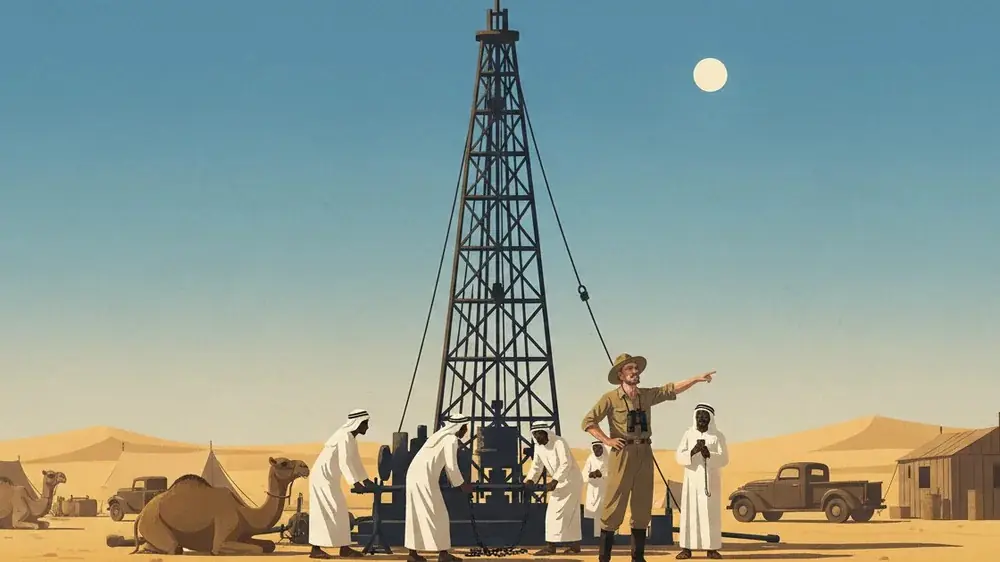
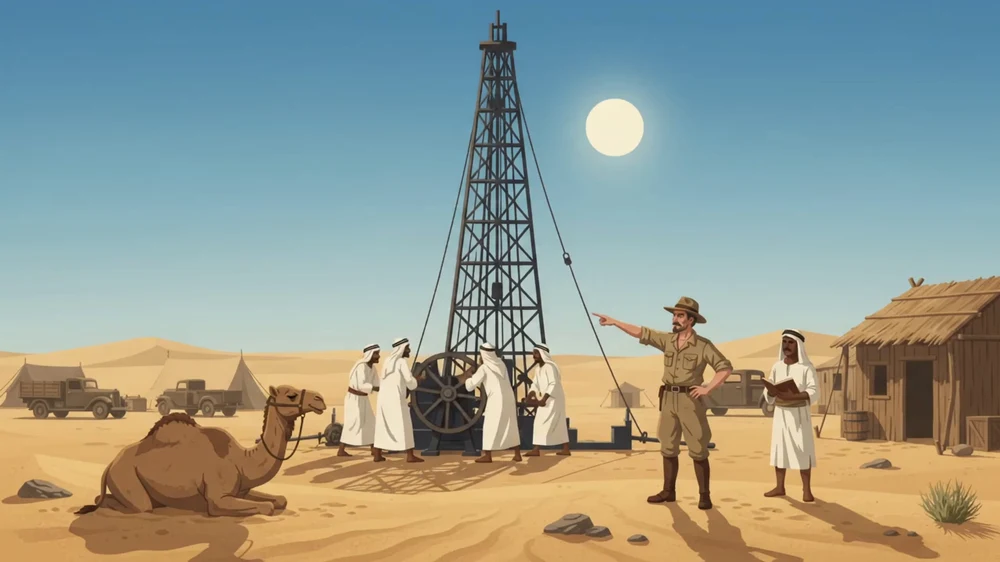
add: animación Gemini con3-17
Claude-Session: https://claude.ai/code/session_01PD9K1kjfaCs4fqXJTcWSvd

diff --git a/sw.js b/sw.js
@@ -1,5 +1,5 @@
 // HistoKHB — service worker: la app abre sin conexión con lo ya visto.
-const V='hk-v298'
+const V='hk-v299'
 const SHELL=['./','index.html','manifest.json','datos/indice.json','img/icono-192.png'];
 self.addEventListener('install',e=>{e.waitUntil(caches.open(V).then(c=>c.addAll(SHELL)).then(()=>self.skipWaiting()));});
 self.addEventListener('activate',e=>{e.waitUntil(caches.keys().then(ks=>Promise.all(ks.filter(k=>k!==V).map(k=>caches.delete(k)))).then(()=>self.clients.claim()));});

diff --git a/foro/animaciones-pendientes.md b/foro/animaciones-pendientes.md
@@ -21,7 +21,7 @@ Veo no supo animarlas sin cambiar el dibujo. Todas las demás láminas ya tienen
 1. ✓ ant4-20 · Paracas y Nazca
 2. ✓ ant5-1 · Egipto romano y cristiano
 3. ✓ con1-19 · Fotografía, telégrafo y vapor
-4. con3-17 · Oriente Medio tras los otomanos
+4. ✓ con3-17 · Oriente Medio tras los otomanos
 5. con4-0 · La Guerra Fría
 6. con4-17 · 1968: juventud, música y protesta
 7. con5-5 · Y mientras tanto…
@@ -471,7 +471,7 @@ Veo no supo animarlas sin cambiar el dibujo. Todas las demás láminas ya tienen
 - [x] con3-3 (Veo, 25-oct) · 
 - [x] con3-13 (Veo, 25-oct) · 
 - [x] con3-16 (Veo, 25-oct) · 
-- [ ] con3-17 · 
+- [x] con3-17 (Gemini, 25-oct) · 
 - [x] con3-14 (Veo, 25-oct) · 
 - [x] con3-5 (Veo, 25-oct) · 
 - [x] con3-15 (Veo, 25-oct) · 
